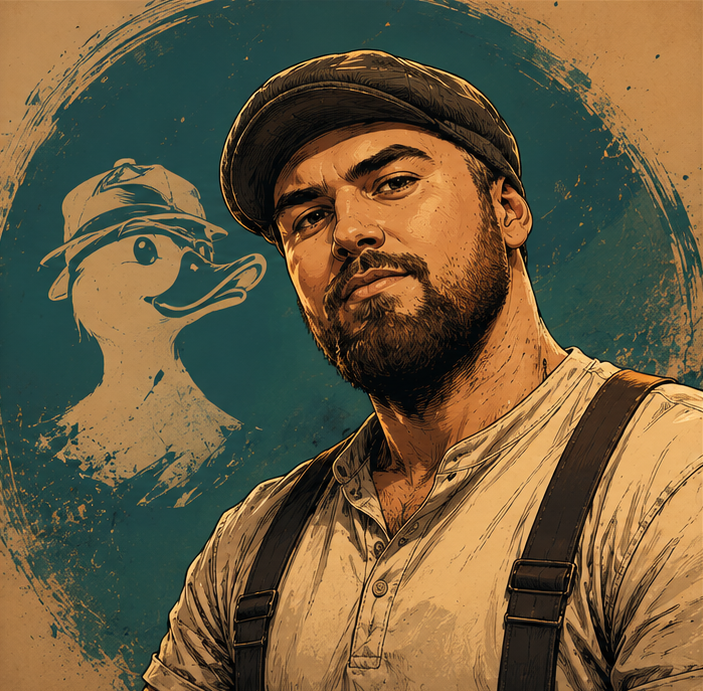
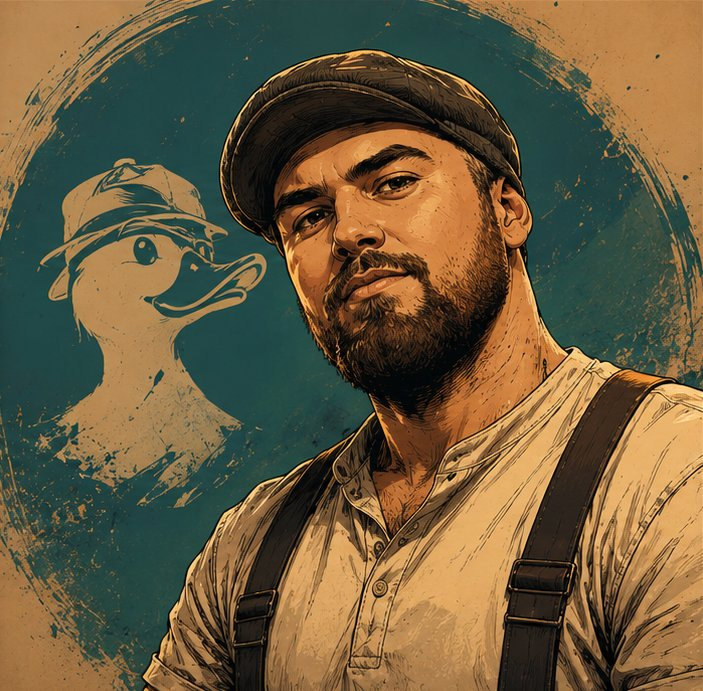
Add files via upload

diff --git a/index.html b/index.html
@@ -1377,7 +1377,7 @@
       </div>
       <!-- KOLME PERUSTAJAA -->
       <div class="member-card">
-        <div class="member-avatar"><img src="visa.png" alt="Mallard"></div>
+        <div class="member-avatar"><img src="mallard.png" alt="Mallard"></div>
         <div class="member-info">
           <div class="member-callsign">Mallard</div>
           <div class="member-role">Perustaja &amp; Johto</div>
@@ -1386,7 +1386,7 @@
         </div>
       </div>
       <div class="member-card">
-        <div class="member-avatar"><img src="juho.png" alt="Goosander"></div>
+        <div class="member-avatar"><img src="goosander.png" alt="Goosander"></div>
         <div class="member-info">
           <div class="member-callsign">Goosander</div>
           <div class="member-role">Taloudenhoitaja</div>
@@ -1394,7 +1394,7 @@
         </div>
       </div>
       <div class="member-card">
-        <div class="member-avatar"><img src="tipi.png" alt="Wigeon"></div>
+        <div class="member-avatar"><img src="wigeon.png" alt="Wigeon"></div>
         <div class="member-info">
           <div class="member-callsign">Wigeon</div>
           <div class="member-role">Työkaluvänrikki</div>
@@ -1448,13 +1448,13 @@
       <div class="filter-row">
         <span class="filter-row-label">Jäsenet</span>
         <button class="filter-btn btn-person" onclick="filterCars('mallard', this)" style="display:flex;align-items:center;gap:7px;padding:5px 12px 5px 5px;border-radius:99px;">
-          <img src="visa.png" alt="Mallard" style="width:26px;height:26px;border-radius:50%;object-fit:cover;object-position:top center;flex-shrink:0;">Mallard
+          <img src="mallard.png" alt="Mallard" style="width:26px;height:26px;border-radius:50%;object-fit:cover;object-position:top center;flex-shrink:0;">Mallard
         </button>
         <button class="filter-btn btn-person" onclick="filterCars('wigeon', this)" style="display:flex;align-items:center;gap:7px;padding:5px 12px 5px 5px;border-radius:99px;">
-          <img src="tipi.png" alt="Wigeon" style="width:26px;height:26px;border-radius:50%;object-fit:cover;object-position:top center;flex-shrink:0;">Wigeon
+          <img src="wigeon.png" alt="Wigeon" style="width:26px;height:26px;border-radius:50%;object-fit:cover;object-position:top center;flex-shrink:0;">Wigeon
         </button>
         <button class="filter-btn btn-person" onclick="filterCars('goosander', this)" style="display:flex;align-items:center;gap:7px;padding:5px 12px 5px 5px;border-radius:99px;">
-          <img src="juho.png" alt="Goosander" style="width:26px;height:26px;border-radius:50%;object-fit:cover;object-position:top center;flex-shrink:0;">Goosander
+          <img src="goosander.png" alt="Goosander" style="width:26px;height:26px;border-radius:50%;object-fit:cover;object-position:top center;flex-shrink:0;">Goosander
         </button>
         <button class="filter-btn btn-person" onclick="filterCars('gadwall', this)" style="display:flex;align-items:center;gap:7px;padding:5px 12px 5px 5px;border-radius:99px;">
           <span style="width:26px;height:26px;border-radius:50%;background:var(--midgray);display:inline-flex;align-items:center;justify-content:center;font-size:14px;flex-shrink:0;">🐤</span>Gadwall